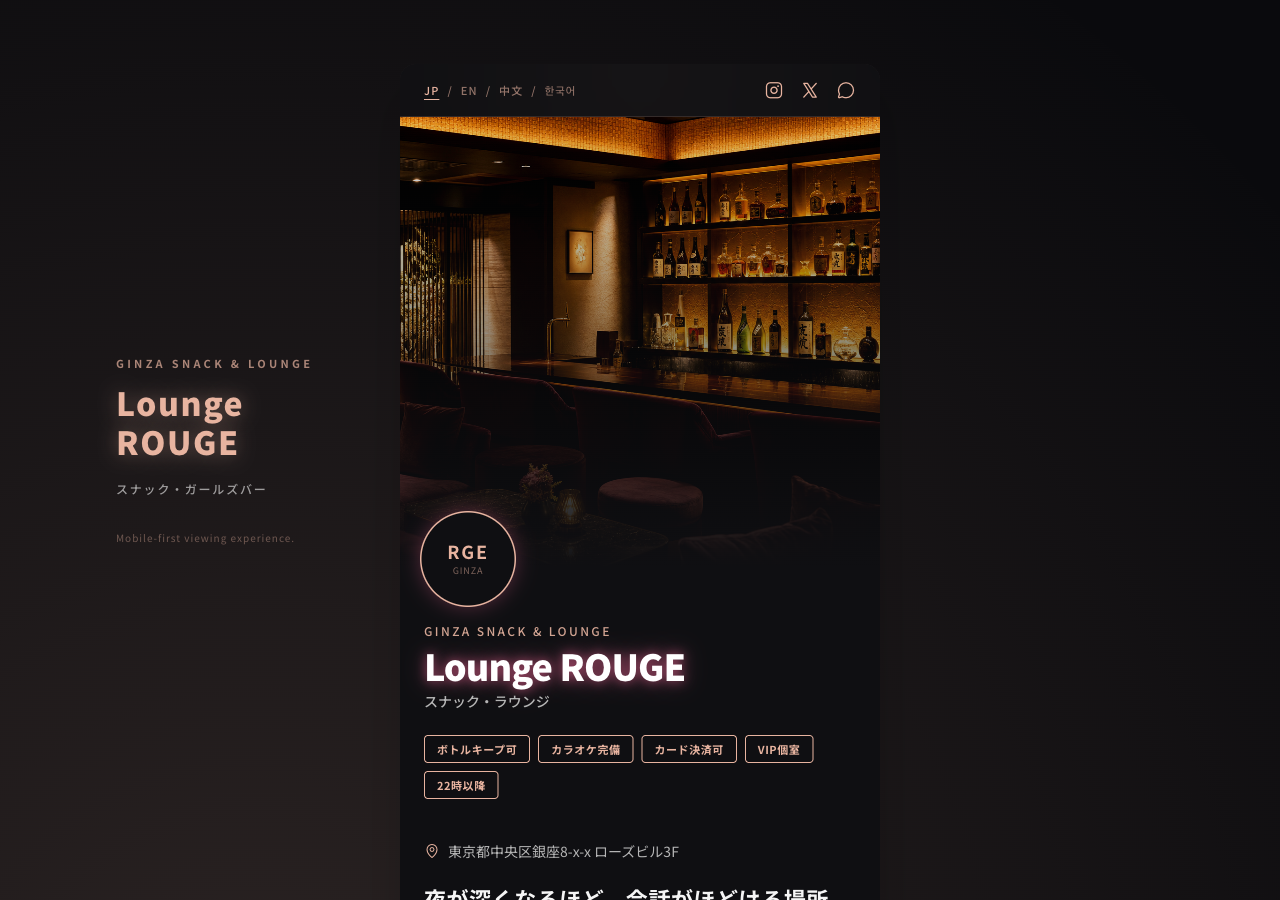
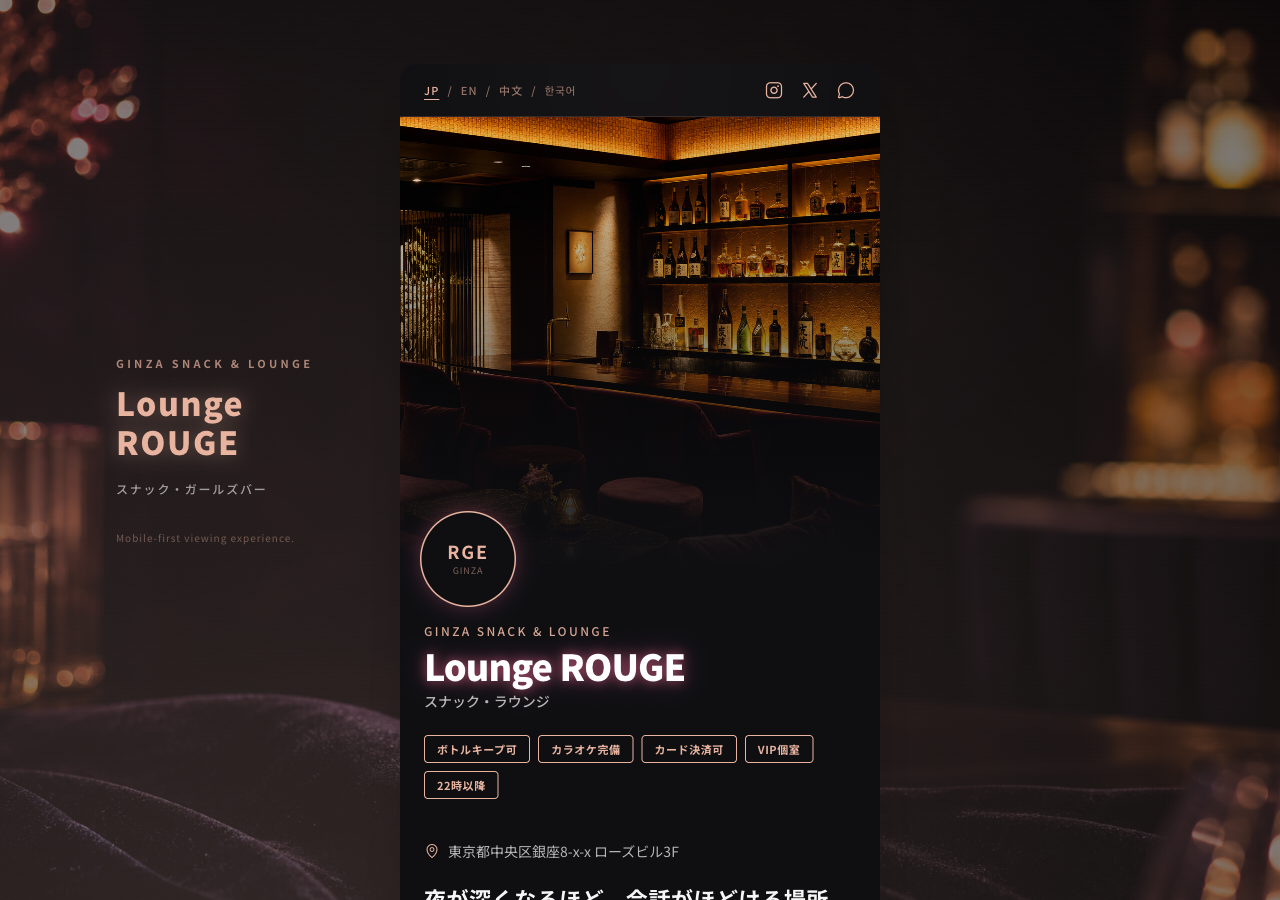
feat: T1-T5 PC背景をaidesignerでテンプレ別生成・全テンプレに反映
## aidesigner で5枚生成（16:9, medium quality）
- T1 クリーン: ユーカリ+リネン+石（白〜淡緑、自然光）
- T2 和モダン: 和紙テクスチャ+竹影+墨流し
- T3 ナチュラル: ラベンダー+リネン+木目（砂色〜モスグリーン）
- T4 エレガント: ネイビー大理石+ゴールド線+シルク
- T5 ナイト: 黒+ボトルbokeh+ベルベット+ピンクゴールド光

→ branding/dummy/pc-bg/T{1-5}.webp に配置

## CSS共通パターン：背景画像＋テンプレ色グラデオーバーレイ
@media (min-width: 1024px) で発火
background:
  linear-gradient(135deg, rgba(...)) /* テンプレ色半透明 */,
  url('../../branding/dummy/pc-bg/{T}.webp') center/cover no-repeat fixed;

→ テーマ色を維持しつつ、テンプレ世界観の写真装飾を実現

## README
- 各テンプレの「PC背景画像 / グラデオーバーレイ / aside色」表を更新
- 共通CSSパターンのコード例
- aidesignerプロンプトのポイント（negative space確保）

diff --git a/shop-page/templates/T5_night.html b/shop-page/templates/T5_night.html
@@ -40,8 +40,10 @@
         @media (min-width: 1024px) {
             body {
                 background:
-                    radial-gradient(circle at 20% 30%, rgba(232,180,160,0.15) 0%, transparent 50%),
-                    radial-gradient(circle at 80% 70%, rgba(255,107,157,0.10) 0%, transparent 50%),
+                    radial-gradient(circle at 20% 30%, rgba(232,180,160,0.20) 0%, transparent 60%),
+                    radial-gradient(circle at 80% 70%, rgba(255,107,157,0.12) 0%, transparent 60%),
+                    linear-gradient(rgba(10,10,13,0.55), rgba(10,10,13,0.55)),
+                    url('../../branding/dummy/pc-bg/T5_night.webp') center/cover no-repeat fixed,
                     #0a0a0d;
                 padding: 2rem 0;
             }

diff --git a/shop-page/templates/T1_clean.html b/shop-page/templates/T1_clean.html
@@ -54,7 +54,9 @@
         /* PC viewport：スマホUIを浮かせて中央配置（既存LPと同じパターン） */
         @media (min-width: 1024px) {
             body {
-                background: linear-gradient(135deg, #f0fdf4 0%, #f9fafb 50%, #ecfdf5 100%);
+                background:
+                    linear-gradient(135deg, rgba(240,253,244,0.7) 0%, rgba(249,250,251,0.5) 50%, rgba(236,253,245,0.7) 100%),
+                    url('../../branding/dummy/pc-bg/T1_clean.webp') center/cover no-repeat fixed;
                 padding: 2rem 0;
             }
             .mobile-container {

diff --git a/shop-page/templates/T2_wamodern.html b/shop-page/templates/T2_wamodern.html
@@ -41,7 +41,9 @@
         /* PC viewport */
         @media (min-width: 1024px) {
             body {
-                background: linear-gradient(135deg, #F5F1E8 0%, #EDE6D5 50%, #E8DFD0 100%);
+                background:
+                    linear-gradient(135deg, rgba(245,241,232,0.55) 0%, rgba(237,230,213,0.45) 50%, rgba(232,223,208,0.55) 100%),
+                    url('../../branding/dummy/pc-bg/T2_wamodern.webp') center/cover no-repeat fixed;
                 padding: 2rem 0;
             }
             .app-container {

diff --git a/shop-page/templates/T3_natural.html b/shop-page/templates/T3_natural.html
@@ -37,7 +37,9 @@
         /* PC viewport */
         @media (min-width: 1024px) {
             body {
-                background: linear-gradient(135deg, #E8DFD0 0%, #D9CDB5 50%, #C7B89F 100%);
+                background:
+                    linear-gradient(135deg, rgba(232,223,208,0.55) 0%, rgba(217,205,181,0.40) 50%, rgba(199,184,159,0.55) 100%),
+                    url('../../branding/dummy/pc-bg/T3_natural.webp') center/cover no-repeat fixed;
                 padding: 2rem 0;
             }
             main {

diff --git a/shop-page/templates/T4_elegant.html b/shop-page/templates/T4_elegant.html
@@ -36,7 +36,9 @@
         /* PC viewport */
         @media (min-width: 1024px) {
             body {
-                background: linear-gradient(135deg, #1A2A4A 0%, #2A3A5A 30%, #f7f7f7 30.5%, #fbfbfb 100%);
+                background:
+                    linear-gradient(135deg, rgba(26,42,74,0.50) 0%, rgba(26,42,74,0.30) 100%),
+                    url('../../branding/dummy/pc-bg/T4_elegant.webp') center/cover no-repeat fixed;
                 padding: 2rem 0;
             }
             main {

diff --git a/shop-page/admin/README.md b/shop-page/admin/README.md
@@ -478,13 +478,31 @@ type Shop = {
 
 ### テンプレ別パラメータ
 
-| テンプレ | 背景グラデ | コンテナ幅 | aside テキスト色 |
-|---|---|---|---|
-| **T1 クリーン** | 白〜淡緑 | 430px | LINE緑タイトル / 濃灰本文 |
-| **T2 和モダン** | 生成り〜木目 | 480px | 木茶タイトル / 墨黒明朝 |
-| **T3 ナチュラル** | 砂色〜モスグリーン | 390px | モスグリーンLora / 茶系 |
-| **T4 エレガント** | ネイビー30%〜白 | 430px | ゴールド英字 / 白明朝 |
-| **T5 ナイト** | 黒+ピンクゴールドの放射光 | 480px | ピンクゴールド光彩 |
+| テンプレ | 背景画像（aidesigner生成） | グラデオーバーレイ | コンテナ幅 | aside テキスト色 |
+|---|---|---|---|---|
+| **T1 クリーン** | `pc-bg/T1_clean.webp`（ユーカリ+リネン+石） | 白〜淡緑半透明 | 430px | LINE緑タイトル / 濃灰本文 |
+| **T2 和モダン** | `pc-bg/T2_wamodern.webp`（和紙+竹影+墨流し） | 生成り〜木目半透明 | 480px | 木茶タイトル / 墨黒明朝 |
+| **T3 ナチュラル** | `pc-bg/T3_natural.webp`（ラベンダー+リネン+木目） | 砂色〜モス半透明 | 390px | モスグリーンLora / 茶系 |
+| **T4 エレガント** | `pc-bg/T4_elegant.webp`（ネイビー大理石+ゴールド線+シルク） | 濃紺半透明 | 430px | ゴールド英字 / 白明朝 |
+| **T5 ナイト** | `pc-bg/T5_night.webp`（黒+ボトルbokeh+ベルベット） | 黒+ピンクゴールド放射光 | 480px | ピンクゴールド光彩 |
+
+### PC背景画像の生成（aidesigner）
+
+5テンプレすべての PC viewport 背景は **aidesigner** で生成し、`branding/dummy/pc-bg/` に WebP で配置。
+
+```css
+/* 共通パターン：背景画像 + テンプレ色グラデーションのオーバーレイ */
+body {
+  background:
+    linear-gradient(135deg, rgba(...) 0%, rgba(...) 100%),   /* テンプレ色を被せる */
+    url('../../branding/dummy/pc-bg/T1_clean.webp') center/cover no-repeat fixed;
+}
+```
+
+ポイント：
+- `center/cover no-repeat fixed`：スクロール時も固定、画面全面カバー
+- グラデーションを **半透明（alpha 0.3〜0.7）** で被せ、テンプレ色を維持しつつ装飾も見せる
+- 中央のモバイルコンテナはネガティブスペースに配置されるよう構図を意識（aidesigner プロンプトで "lots of negative space in the center" を指示）
 
 ### aside の内容（5テンプレ共通フォーマット）
 ```
